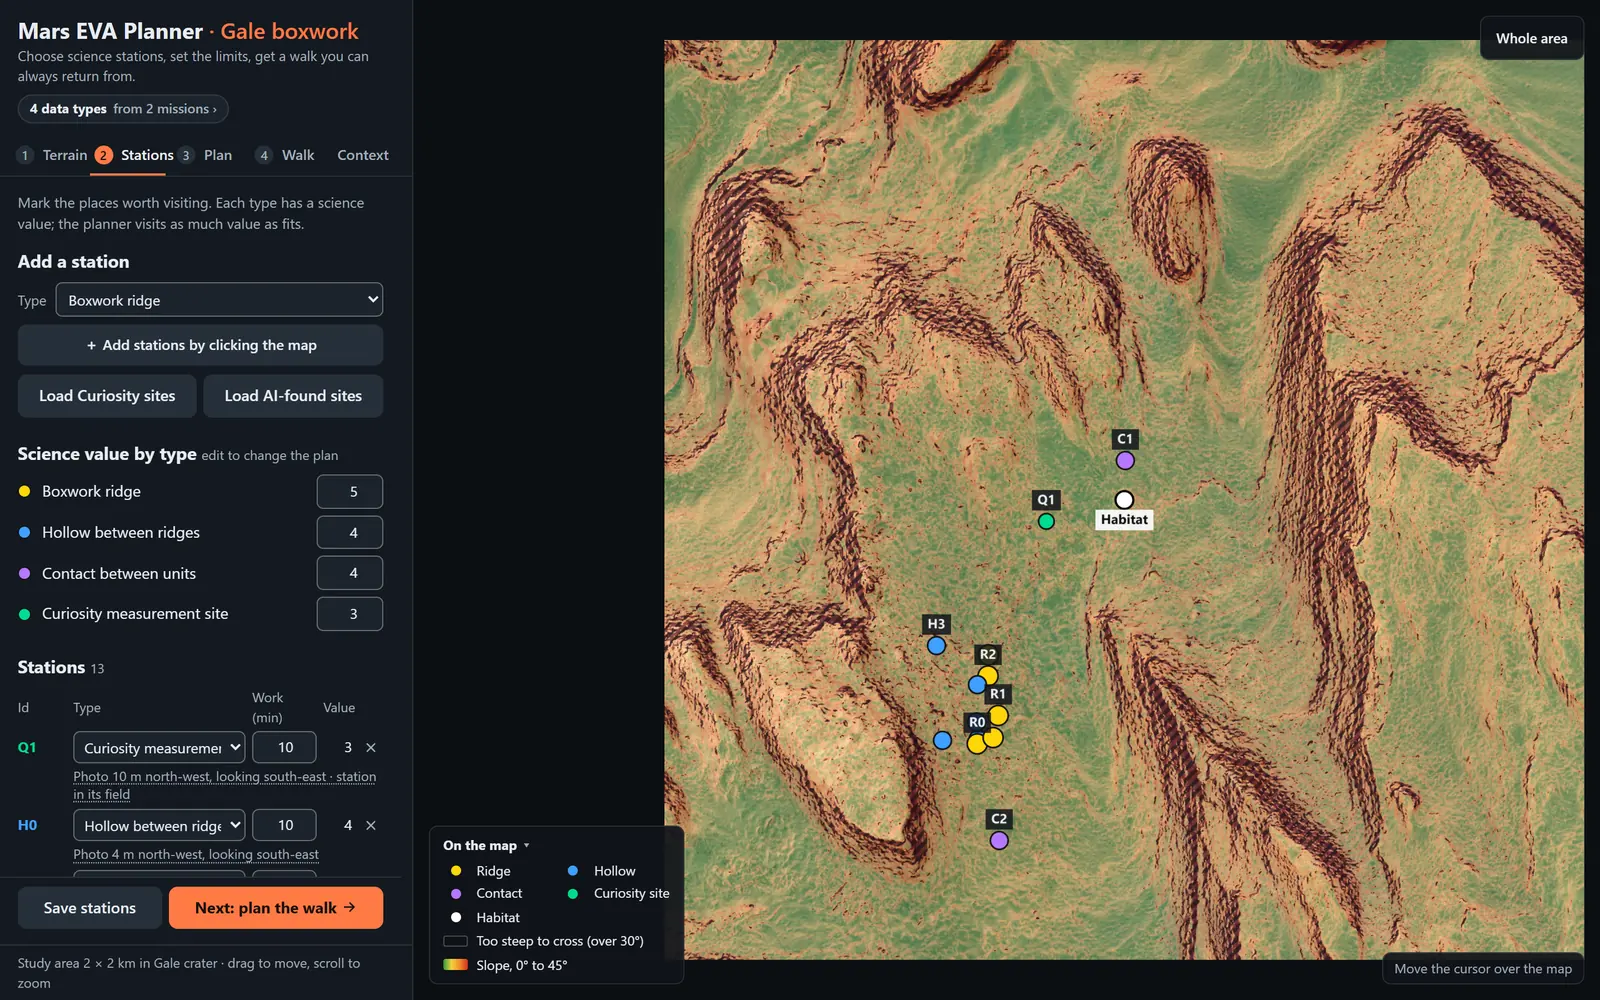
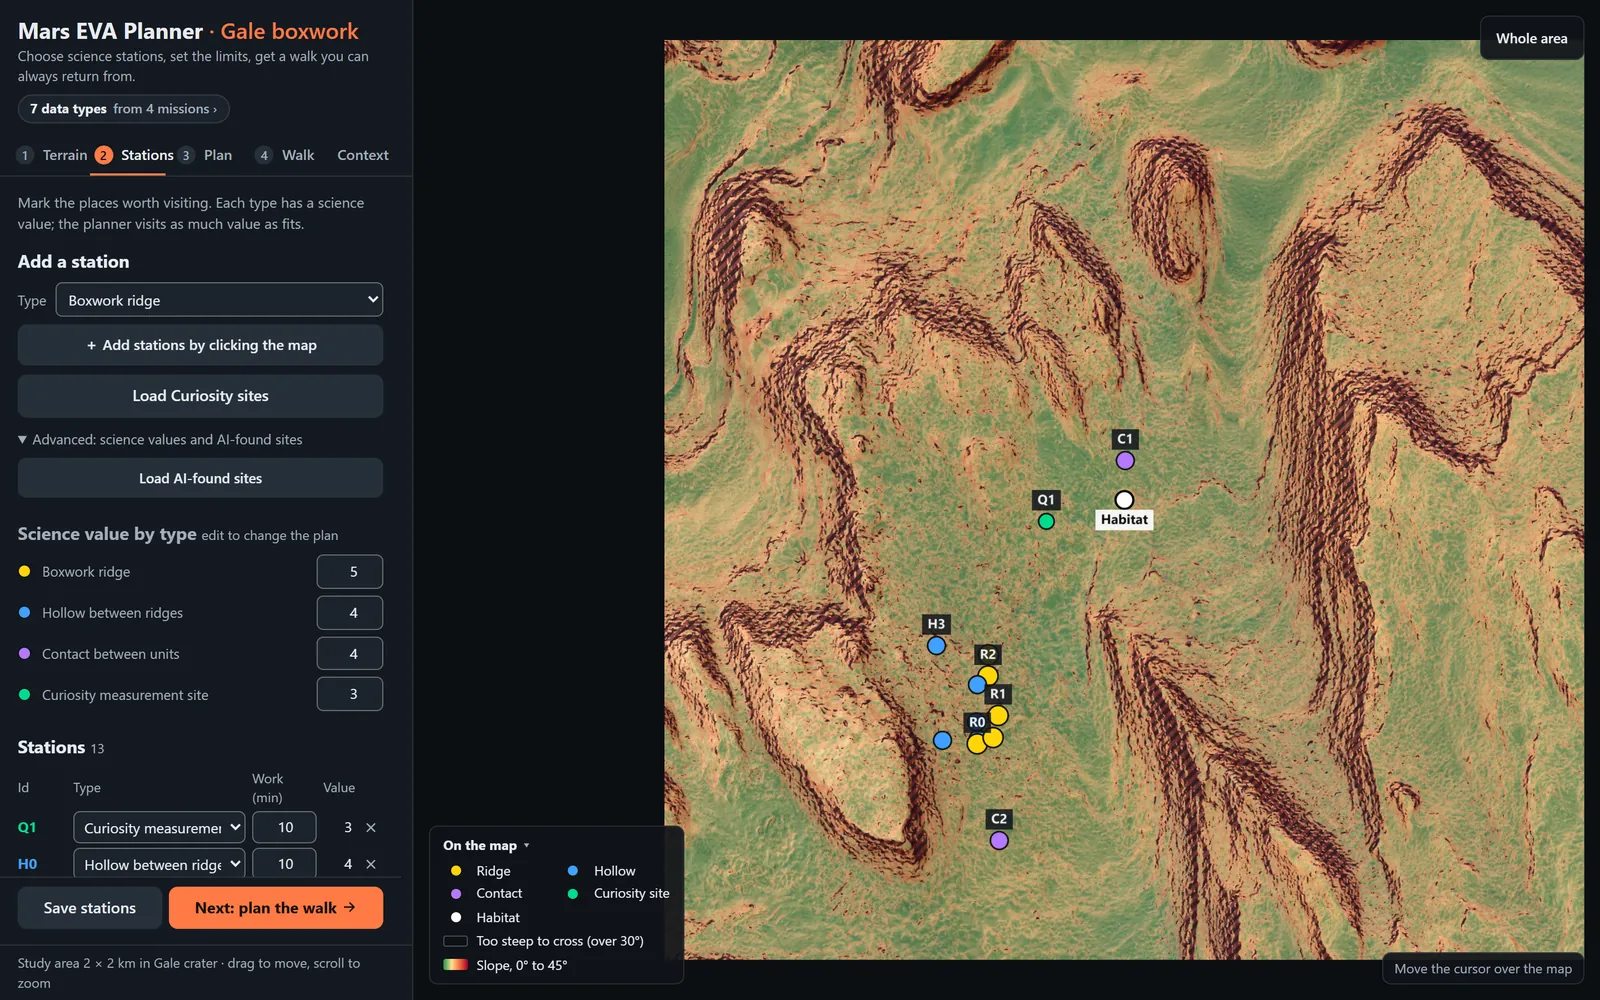
126: demo steps and 2D/tablet screenshots match the HUD after #157/#158
- demo.html: step 4 points to "Advanced: science values and AI-found
  sites"; step 7 to "Show on the map" on the Radio line; step 8 to
  Context -> Radiation; the tablet step to 4 Walk -> Guide (tablet) and
  the storm's "Why and how much".
- Retook the 11 HUD and tablet screenshots on main 32ecc4a with every
  release (7 data types from 4 missions) and the stations-v1 list; step 9
  (weather) now has its screenshot. Numbers unchanged: 8 of 13 stations,
  111 of 120 min, 41 % without direct radio, sol 4711 -74 to -4 C.
- Alt texts follow the new shots; README says how they were taken.
  3D screenshots are unchanged (the 3D view did not change).

diff --git a/web/home/demo.html b/web/home/demo.html
@@ -153,9 +153,9 @@
         </div>
         <dl class="step__body">
           <dt>Press</dt>
-          <dd>Open <strong>2 Stations</strong>. The values by type can be edited: ridge 5, hollow 4, contact 4, Curiosity site 3.</dd>
+          <dd>Open <strong>2 Stations</strong>, then <strong>Advanced: science values and AI-found sites</strong>. The values by type can be edited: ridge 5, hollow 4, contact 4, Curiosity site 3.</dd>
           <dt>Look for</dt>
-          <dd><strong>Load AI-found sites</strong> adds 15 stations found next to the sand patches, without saving them.</dd>
+          <dd>In the same section, <strong>Load AI-found sites</strong> adds 15 stations found next to the sand patches, without saving them.</dd>
         </dl>
         <figure class="shot">
           <img src="assets/step-stations-1000.webp"
@@ -216,7 +216,7 @@
         </div>
         <dl class="step__body">
           <dt>Press</dt>
-          <dd>Back in <strong>3 Plan</strong>, press <strong>Show on the map</strong> under the plan summary.</dd>
+          <dd>Back in <strong>3 Plan</strong>, press <strong>Show on the map</strong> on the <strong>Radio</strong> line under the plan.</dd>
           <dt>Look for</dt>
           <dd>The habitat antenna sees 22.6 % of the box, in blue. Magenta marks the 41 % of the 120 min tour with no direct radio.</dd>
         </dl>
@@ -237,7 +237,7 @@
         </div>
         <dl class="step__body">
           <dt>Press</dt>
-          <dd>In <strong>Context</strong>, pick a storm and press <strong>Simulate a solar storm alert</strong>.</dd>
+          <dd>In <strong>Context → Radiation</strong>, pick a storm and press <strong>Simulate a solar storm alert</strong>.</dd>
           <dt>Look for</dt>
           <dd>The fastest way home appears as an amber dashed line, with the dose on the way back. <strong>Dismiss</strong> clears it.</dd>
         </dl>
@@ -262,7 +262,13 @@
           <dt>Look for</dt>
           <dd>On sol 4711 the air went from −74 to −4 °C, with 11.9 h of daylight, so a 120 min walk fits.</dd>
         </dl>
-        <p class="pending">Screenshot to come. The weather data was not on the laptop used for these captures.</p>
+        <figure class="shot">
+          <img src="assets/step-weather-1000.webp"
+               srcset="assets/step-weather-640.webp 640w, assets/step-weather-1000.webp 1000w, assets/step-weather-1600.webp 1600w"
+               sizes="(min-width: 1264px) 880px, (min-width: 1024px) 66vw, (min-width: 640px) calc(100vw - 64px), calc(100vw - 32px)"
+               width="1000" height="625" loading="lazy" decoding="async"
+               alt="The Context tab with Weather on the day open for sol 4711: air from −74 to −4 °C, daylight from 05:24 to 17:20, and a chart of the daily temperatures over the boxwork campaign.">
+        </figure>
       </article>
 
       <article class="step" id="step-10" aria-labelledby="step-10-title">
@@ -293,15 +299,15 @@
         <div class="guide-box">
           <dl class="step__body">
             <dt>Press</dt>
-            <dd>Under the plan, press <strong>Guide (tablet)</strong>, then <strong>Walk</strong>.</dd>
+            <dd>In <strong>4 Walk</strong>, press <strong>Guide (tablet)</strong>, then <strong>Walk</strong>.</dd>
             <dt>Try</dt>
-            <dd>Under <strong>Demo controls</strong>, press <strong>Step off route</strong> and <strong>Solar storm</strong>. <strong>Return home</strong> turns back at any time.</dd>
+            <dd>Under <strong>Demo controls (for the presenter)</strong>, press <strong>Step off route</strong> and <strong>Solar storm</strong>: the storm turns the walk home on a red line, with the dose under <strong>Why and how much</strong>. <strong>Return home</strong> turns back at any time.</dd>
           </dl>
           <img src="assets/guide-storm-800.webp"
                srcset="assets/guide-storm-480.webp 480w, assets/guide-storm-800.webp 800w, assets/guide-storm-1184.webp 1184w"
                sizes="(min-width: 720px) 288px, 70vw"
                width="800" height="1595" loading="lazy" decoding="async"
-               alt="Guide mode on a tablet during a simulated solar storm: a red alert, the time home and the meters.">
+               alt="Guide mode on a tablet during a simulated solar storm: a red banner says to go home now, the next turn says home in 6.6 min, and the map shows the way home in red.">
         </div>
       </section>
 

diff --git a/web/home/index.html b/web/home/index.html
@@ -186,7 +186,7 @@
                srcset="assets/guide-walk-480.webp 480w, assets/guide-walk-800.webp 800w, assets/guide-walk-1184.webp 1184w"
                sizes="(min-width: 1264px) 300px, (min-width: 900px) 24vw, 45vw"
                width="800" height="1595" loading="lazy" decoding="async"
-               alt="Guide mode on a tablet: 60 m to station R3, a warning that direct radio drops in 80 m, four green meters and the route map.">
+               alt="Guide mode on a tablet: 410 m to station R3, a warning that direct radio drops in 80 m, four green meters and the route map.">
           <figcaption><span>Walking: a radio warning.</span></figcaption>
         </figure>
         <figure class="shot">
@@ -194,7 +194,7 @@
                srcset="assets/guide-storm-480.webp 480w, assets/guide-storm-800.webp 800w, assets/guide-storm-1184.webp 1184w"
                sizes="(min-width: 1264px) 300px, (min-width: 900px) 24vw, 45vw"
                width="800" height="1595" loading="lazy" decoding="async"
-               alt="Guide mode during a simulated solar storm: a red alert says to return to the habitat now, with the time home and the radiation dose on the way.">
+               alt="Guide mode during a simulated solar storm: a red banner says to go home now, the next turn gives the time home, and the map shows the way home in red.">
           <figcaption><span>A solar storm: go home now.</span></figcaption>
         </figure>
       </div>

diff --git a/docs/landing/README.md b/docs/landing/README.md
@@ -72,12 +72,16 @@ Two numbers from `docs/demo.md` were left out because the notes disagree:
 2. **Links into the landing page** (files owned by Sebas, asked on the board): a link to `/home/` from the HUD, the guide and the 3D view; the demo script (`docs/demo.md`). If the landing page later takes `/`, also "← 2D planner" in `web/3d/index.html`, "Planner" in `web/guide.html`, the deploy guard (`api/public_mode.py`, PR #152) and the README. The wrist card's QR points to `/guide.html` and stays.
 3. **Deploy (#122, PR #152):** its guard treats `/`, `.html`, `.js`, `.css`, `/tiles/`, `/vendor/` and `/3d/` as static; the `.webp` images under `/home/assets/` would count as computational requests. Needs `.webp` (or `/home/`) in that list.
 4. **One name per view (#124).** The 3D view is "3D view" in the HUD, "Open in 3D" on the photo card and here, and "Same walk in 3D" in the guide.
-5. **Retake the app screenshots on the demo machine.** The laptop used for the mock lacked the REMS, minerals and THEMIS releases. So the HUD's source chip reads "4 data types from 2 missions", and step 9 (weather) has no screenshot yet.
+5. **3D screenshots** (`hero-3d`, `poster-3d`, `rehearse-3d`, `photo-3d`, `step-rehearse`) are still from the mock. #124 did not change the 3D view; retake them if it does. The 2D and tablet ones were retaken after #157/#158 (below).
 6. Add "HiRISE: NASA/JPL-Caltech/University of Arizona" to `paper/references.md`. It is the usual HiRISE credit and is used here.
 
 ## How the app screenshots were made
 
-- **Setup:** the real app from `main` (e422e69, the `martian-main` server), driven by headless Edge through the DevTools protocol.
-- **Sizes:** 1440×900 at 2× for the HUD and the 3D view, 1600×900 for the 3D hero, and 820×1180 for the tablet guide.
-- **Plan:** the default 120 min plan (13 stations, 1,000 Wh, 30°, human cost). Planning rewrites `data/plans/last_plan.json`, so the file was backed up and restored; its hash is unchanged.
-- **No stations or walks were saved.**
+**2D planner and tablet guide (retaken 2026-11-15, after #157 and #158).**
+- **Setup:** the real app from `main` at `32ecc4a`, with every release, including REMS, minerals, THEMIS and E9 boulders. The HUD's source chip reads "7 data types from 4 missions". Driven by headless Edge through the DevTools protocol, with `?tips=off`.
+- **Sizes:** 1440×900 at 2× for the HUD and 592×1180 at 2× for the tablet guide. Saved as WebP (quality 80) in the same three widths as before.
+- **Stations:** the `stations-v1` release (13 stations, rubric 5/4/4/3), copied in for the captures. The laptop's own saved stations (28, with an edited rubric) were backed up and restored byte for byte.
+- **Plan:** the default 120 min plan (1,000 Wh, 10 % reserve, 30°, sand cost). It gives the numbers on the pages: 8 of 13 stations, 111 of 120 min, 448 of 900 Wh, 1.39 km, 41 % of the walk without direct radio. Sol 4711: −74 to −4 °C, 11.9 h of daylight.
+- `data/plans/last_plan.json` was backed up and restored; its hash is unchanged. No stations or walks were saved.
+
+**3D view (from the mock, Juan's Claude).** The real app from `main` (e422e69), headless Edge; 1440×900 at 2×, and 1600×900 for the hero.
